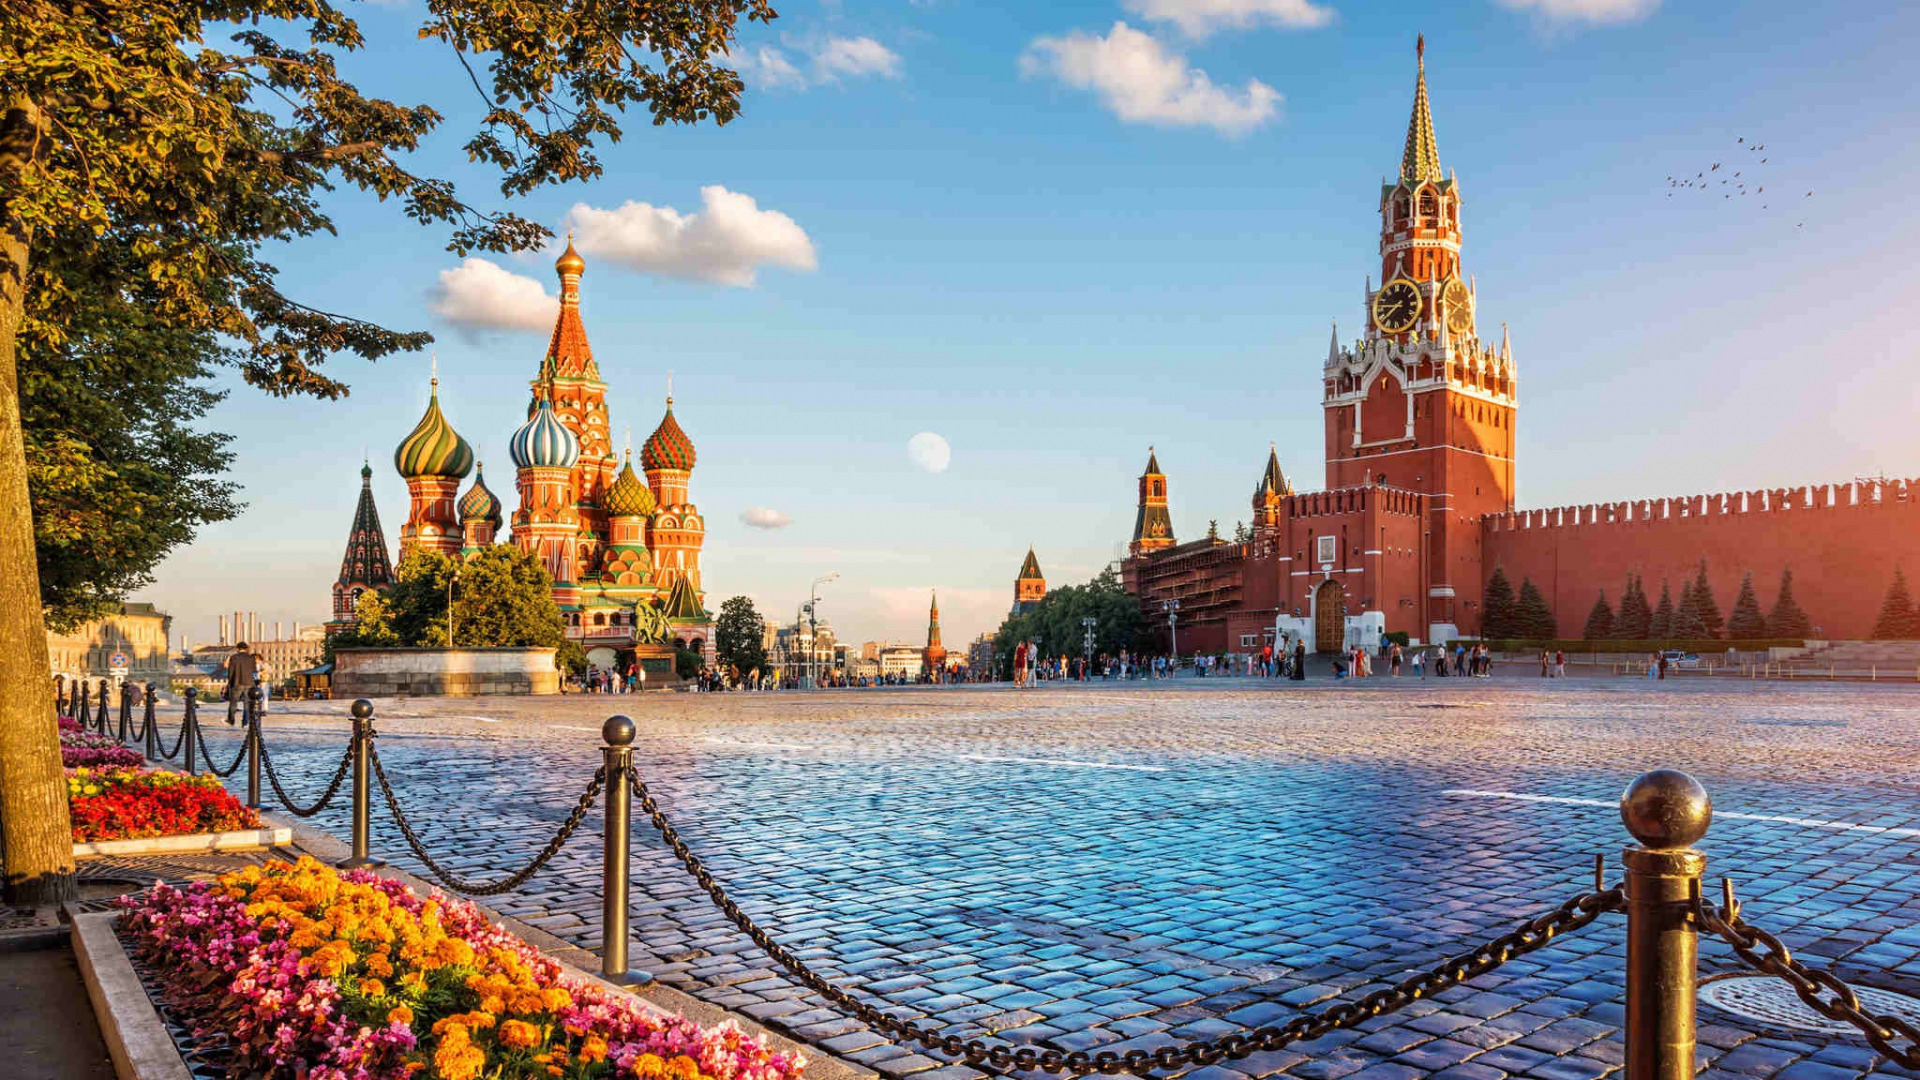
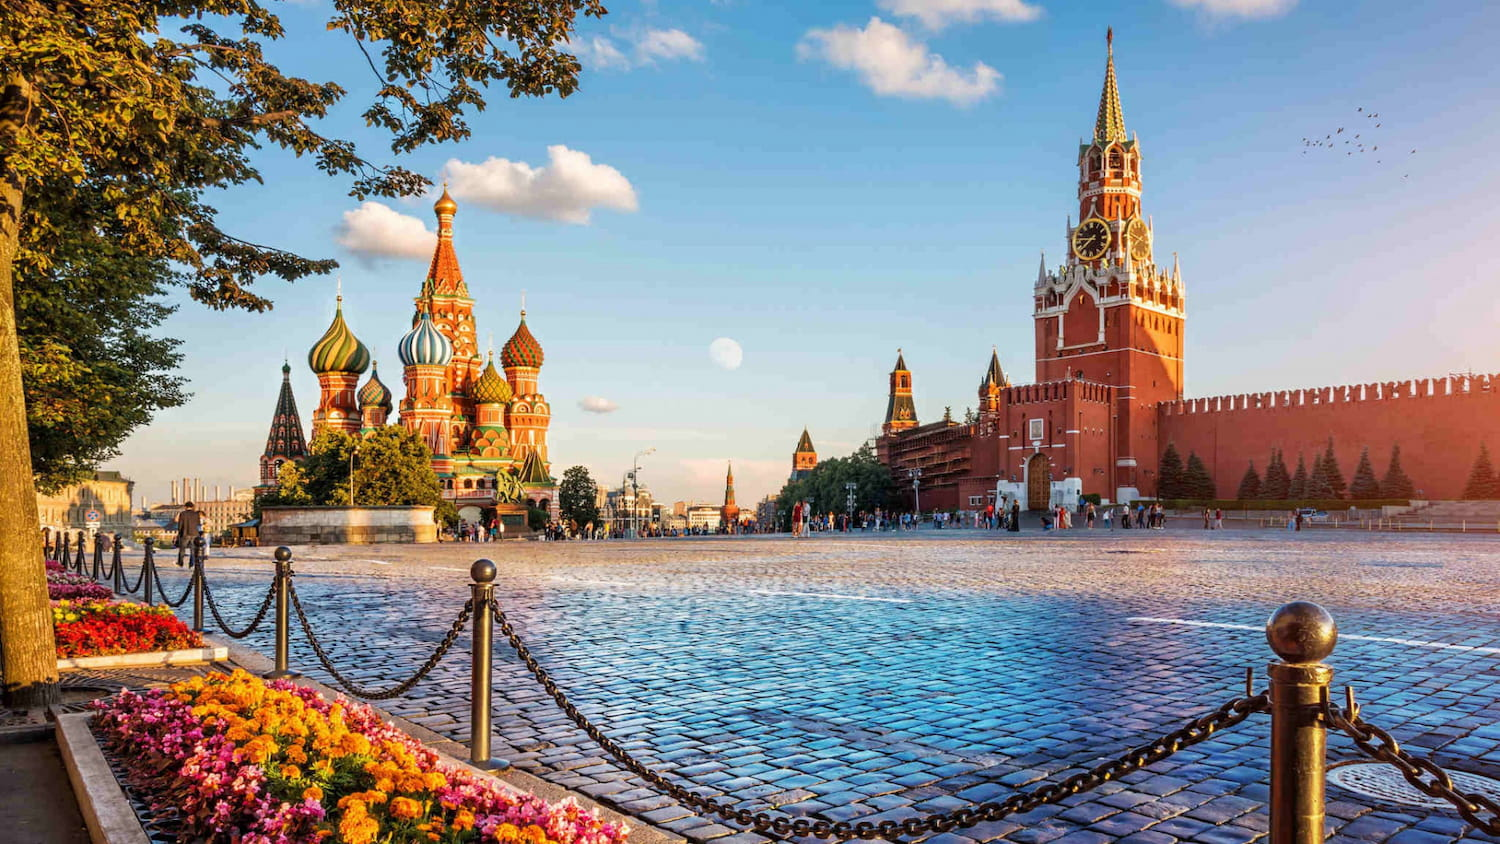
Resized and compressed all images

Changed region(s): [[0.092, 0.4313, 0.1227, 0.4621]]

diff --git a/contact.html b/contact.html
@@ -5,18 +5,14 @@
     <meta http-equiv="X-UA-Compatible" content="IE=edge">
     <meta name="viewport" content="width=device-width, initial-scale=1.0">
     <title>Visit Moscow</title>
+    <link rel="shortcut icon" type="image/jpg" href="assets/images/moscow-favicon-2.jpg"/> <!--Favicon credit: https://iconduck.com/icons/114143/moscow-->
     <meta name="description" content="Visit Moscow is an interactive website providing all usefull information for your trip planning to Moscow.">
     <link rel="stylesheet" href="https://stackpath.bootstrapcdn.com/bootstrap/4.1.3/css/bootstrap.min.css" integrity="sha384-MCw98/SFnGE8fJT3GXwEOngsV7Zt27NXFoaoApmYm81iuXoPkFOJwJ8ERdknLPMO" crossorigin="anonymous">
-    <script src="https://kit.fontawesome.com/b16671573c.js" crossorigin="anonymous"></script>
     <link rel="preconnect" href="https://fonts.gstatic.com">
     <link href="https://fonts.googleapis.com/css2?family=Roboto:wght@100;300;400;500;700;900&display=swap" rel="stylesheet">
     <link rel="preconnect" href="https://fonts.gstatic.com">
-    <link href="https://fonts.googleapis.com/css2?family=Lato:wght@100;300;400;700;900&display=swap" rel="stylesheet">
-    <link rel="preconnect" href="https://fonts.gstatic.com">
     <link href="https://fonts.googleapis.com/css2?family=Yanone+Kaffeesatz:wght@500&display=swap" rel="stylesheet">
     <link rel="stylesheet" href="assets/css/style.css">
-    <link rel="preconnect" href="https://fonts.gstatic.com">
-    <link href="https://fonts.googleapis.com/css2?family=Raleway:wght@100;200;300;400;500;600;700;800;900&display=swap" rel="stylesheet">    
     <script type="text/javascript" src="https://cdn.jsdelivr.net/npm/emailjs-com@2/dist/email.min.js"></script>
     <script type="text/javascript">
         (function() {
@@ -47,10 +43,10 @@
 
     <section>
         <div class="container-fluid no-padding" id="image-outer-3">
-            <form onsubmit="return sendMail(this);" id="contact-form">
-                <input type="text" name="name" class="form-control text-input" id="fullname" placeholder="Name" required/>
-                <input type="email" name="emailaddress" class="form-control text-input" id="emailaddress" placeholder="Email" required/>
-                <textarea rows="5" name="yourmessage" class="form-control text-input" id="yourmessage" placeholder="Your Message" required></textarea>
+            <form onsubmit="return sendMail(this);" id="contact-form" aria-label="Contact form">
+                <input type="text" name="name" class="form-control text-input" id="fullname" placeholder="Name" aria-label="Put your name" required/>
+                <input type="email" name="emailaddress" class="form-control text-input" id="emailaddress" placeholder="Email" aria-label="Put your email address" required/>
+                <textarea rows="5" name="yourmessage" class="form-control text-input" id="yourmessage" placeholder="Your Message" aria-label="Leave your message" required></textarea>
                 <button type="submit" class="btn btn-lg btn--yellow">Send Project Request</button>
             </form>
         </div>

diff --git a/index.html b/index.html
@@ -5,18 +5,14 @@
     <meta http-equiv="X-UA-Compatible" content="IE=edge">
     <meta name="viewport" content="width=device-width, initial-scale=1.0">
     <title>Visit Moscow</title>
+    <link rel="shortcut icon" type="image/jpg" href="assets/images/moscow-favicon-2.jpg"/> <!--Favicon credit: https://iconduck.com/icons/114143/moscow-->
     <meta name="description" content="Visit Moscow is an interactive website providing all usefull information for your trip planning to Moscow.">
     <link rel="stylesheet" href="https://stackpath.bootstrapcdn.com/bootstrap/4.1.3/css/bootstrap.min.css" integrity="sha384-MCw98/SFnGE8fJT3GXwEOngsV7Zt27NXFoaoApmYm81iuXoPkFOJwJ8ERdknLPMO" crossorigin="anonymous">
-    <script src="https://kit.fontawesome.com/b16671573c.js" crossorigin="anonymous"></script>
     <link rel="preconnect" href="https://fonts.gstatic.com">
     <link href="https://fonts.googleapis.com/css2?family=Roboto:wght@100;300;400;500;700;900&display=swap" rel="stylesheet">
     <link rel="preconnect" href="https://fonts.gstatic.com">
-    <link href="https://fonts.googleapis.com/css2?family=Lato:wght@100;300;400;700;900&display=swap" rel="stylesheet">
-    <link rel="preconnect" href="https://fonts.gstatic.com">
     <link href="https://fonts.googleapis.com/css2?family=Yanone+Kaffeesatz:wght@500&display=swap" rel="stylesheet">
     <link rel="stylesheet" href="assets/css/style.css">
-    <link rel="preconnect" href="https://fonts.gstatic.com">
-    <link href="https://fonts.googleapis.com/css2?family=Raleway:wght@100;200;300;400;500;600;700;800;900&display=swap" rel="stylesheet">
 </head>
 <body>
     <header>
@@ -93,7 +89,6 @@
     </footer>
 
     <script src="https://code.jquery.com/jquery-3.3.1.slim.min.js" integrity="sha384-q8i/X+965DzO0rT7abK41JStQIAqVgRVzpbzo5smXKp4YfRvH+8abtTE1Pi6jizo" crossorigin="anonymous"></script>
-    <script src="https://cdnjs.cloudflare.com/ajax/libs/popper.js/1.14.3/umd/popper.min.js" integrity="sha384-ZMP7rVo3mIykV+2+9J3UJ46jBk0WLaUAdn689aCwoqbBJiSnjAK/l8WvCWPIPm49" crossorigin="anonymous"></script>
     <script src="https://stackpath.bootstrapcdn.com/bootstrap/4.1.3/js/bootstrap.min.js" integrity="sha384-ChfqqxuZUCnJSK3+MXmPNIyE6ZbWh2IMqE241rYiqJxyMiZ6OW/JmZQ5stwEULTy" crossorigin="anonymous"></script>
     <script src="assets/js/weather.js"></script>
 </body>

diff --git a/things-to-do.html b/things-to-do.html
@@ -5,6 +5,7 @@
     <meta http-equiv="X-UA-Compatible" content="IE=edge">
     <meta name="viewport" content="width=device-width, initial-scale=1.0">
     <title>Visit Moscow</title>
+    <link rel="shortcut icon" type="image/jpg" href="assets/images/moscow-favicon-2.jpg"/> <!--Favicon credit: https://iconduck.com/icons/114143/moscow-->
     <meta name="description" content="Visit Moscow is an interactive website providing all usefull information for your trip planning to Moscow.">
     <link rel="stylesheet" href="https://stackpath.bootstrapcdn.com/bootstrap/4.1.3/css/bootstrap.min.css" integrity="sha384-MCw98/SFnGE8fJT3GXwEOngsV7Zt27NXFoaoApmYm81iuXoPkFOJwJ8ERdknLPMO" crossorigin="anonymous">
     <script src="https://kit.fontawesome.com/b16671573c.js" crossorigin="anonymous"></script>

diff --git a/assets/css/style.css b/assets/css/style.css
@@ -128,9 +128,9 @@ body{
 
     height: 100vh;
 
-    /*Photo credit: https://wallpaperaccess.com/moscow-city */
+    /*Photo credit: https://www.wallpaperflare.com/saint-basil-s-cathedral-russia-moscow-rain-water-drops-church-wallpaper-phrrk */
 
-    background: url(../images/moscow-view-3.jpg) no-repeat center center fixed; 
+    background: url(../images/moscow-view-5.jpg) no-repeat center center fixed; 
     -webkit-background-size: cover;
     -moz-background-size: cover;
     -o-background-size: cover;
